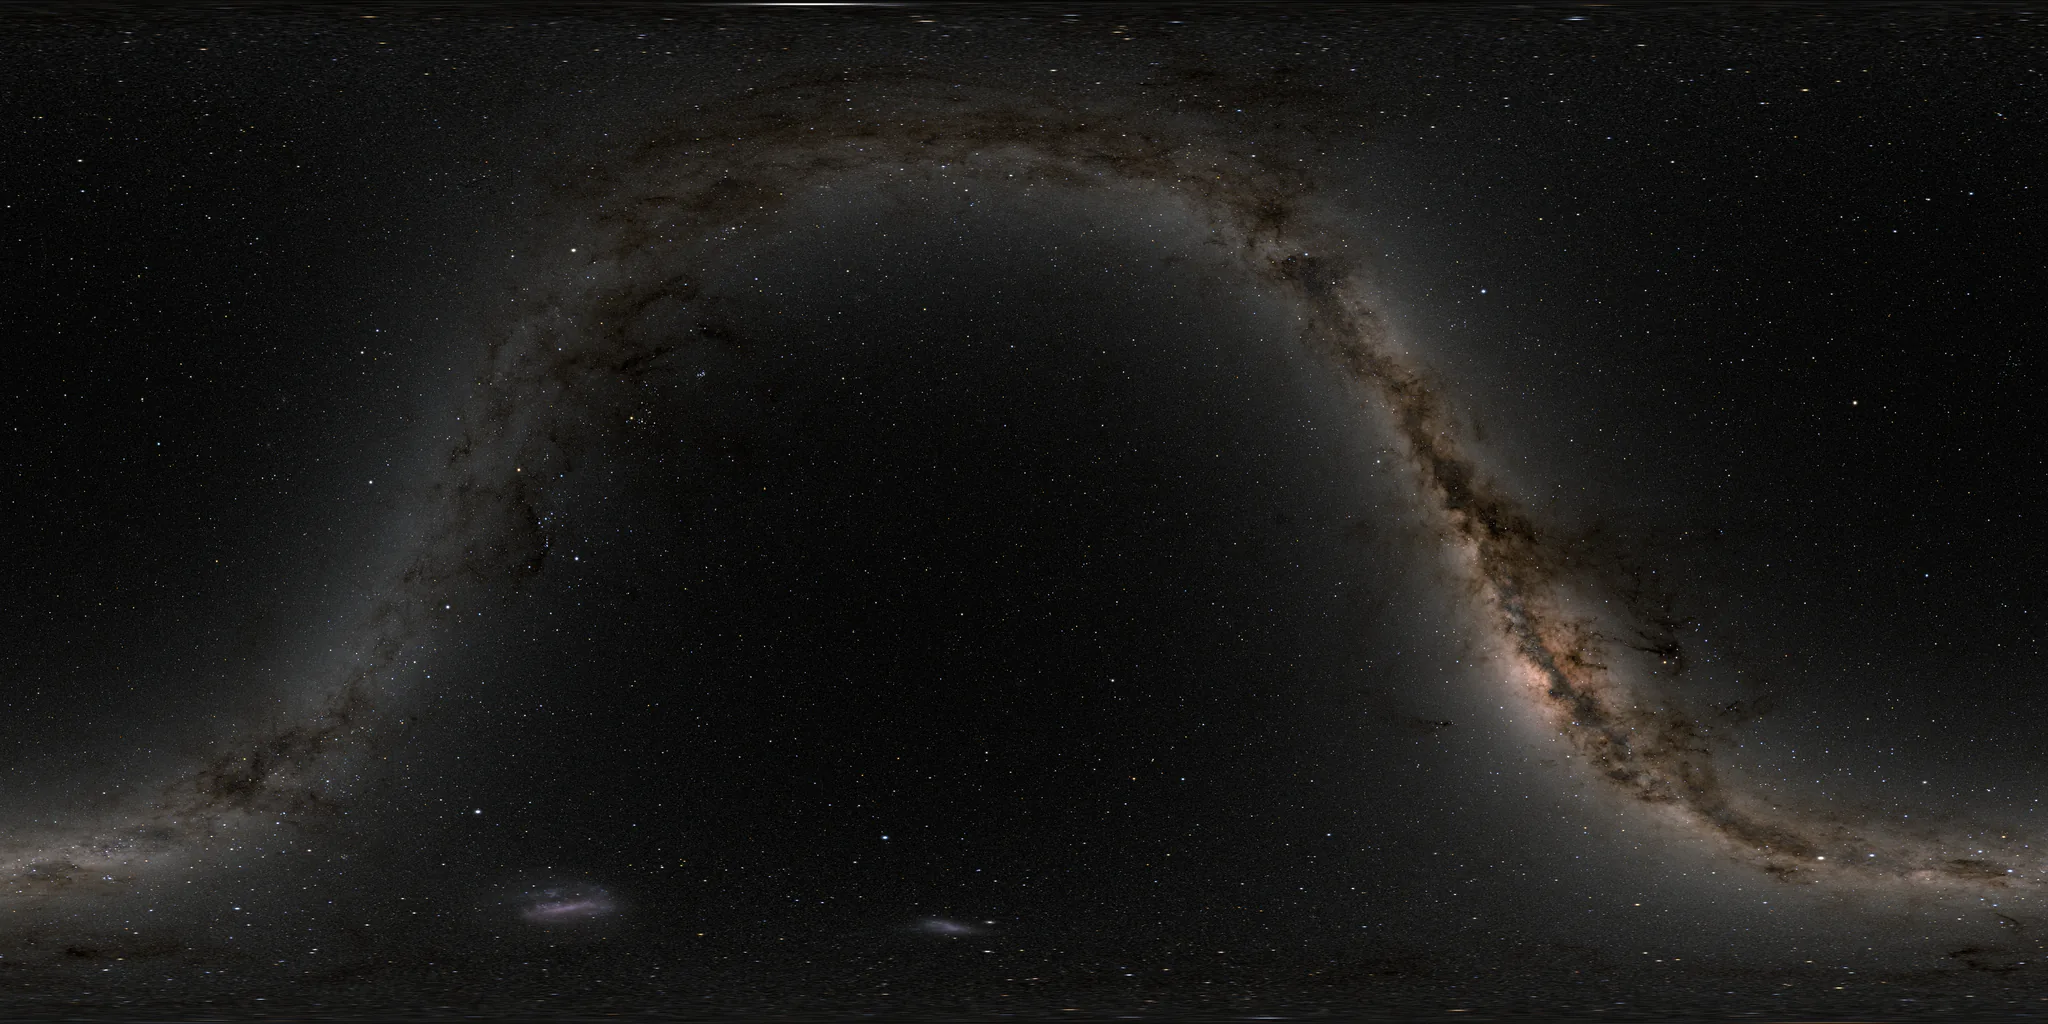
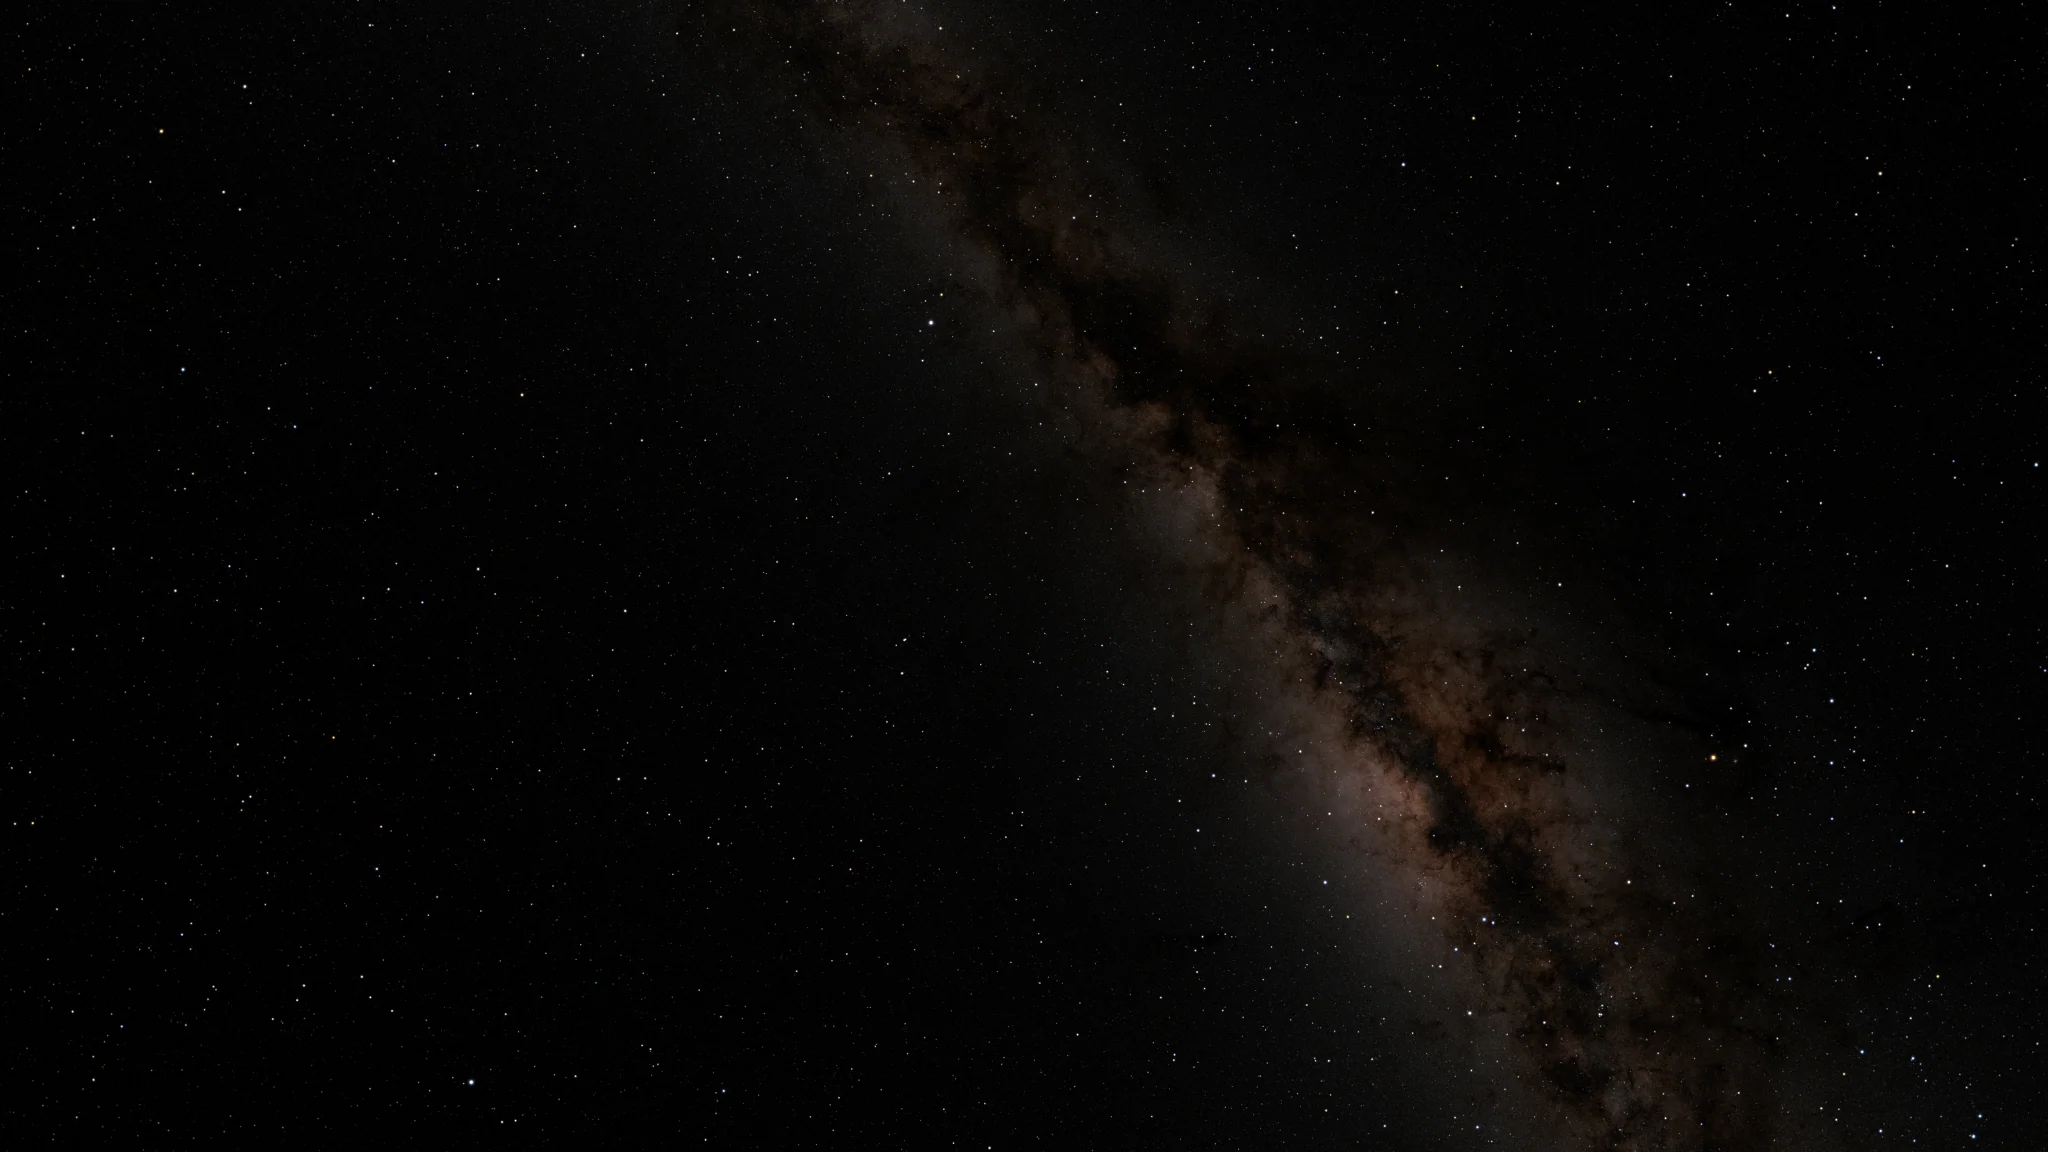
Project the night sky for flat screens and simplify the homepage globe

diff --git a/frontend/app/moon-globe.tsx b/frontend/app/moon-globe.tsx
@@ -261,7 +261,7 @@ export default function MoonGlobe({ home = false, primary, alternative, evidence
           : sun ? "Drag or use the arrows to rotate the sunlight map."
           : "Reference imagery with fixed lighting. Drag or use the arrows to rotate. This globe does not model terrain or calculate Sun/Earth visibility.")}</span></> :
         <><a href="https://svs.gsfc.nasa.gov/5001/" target="_blank" rel="noreferrer">LRO Moon mosaic · NASA’s Scientific Visualization Studio</a><br />{t("Context image, not current illumination or a selected-site view.")}</>}
-      <div className="globe-locator">
+      {!home && <div className="globe-locator">
         <div className="site-pin-key" role="group" aria-label={t("Locate a site")}>
           {pins.map((item, index) => <button type="button" key={item.key} data-pin={index}
             aria-pressed={target?.key === item.key} onClick={() => locate(item)}>
@@ -279,7 +279,7 @@ export default function MoonGlobe({ home = false, primary, alternative, evidence
         {target && <div className="globe-place">
           {"reason" in target.location ? <p>{t(target.location.reason)}</p> : <p>{t("Reported location")} · {target.location.point.latitude}° {t("latitude")} · {target.location.point.longitude}° {t("east longitude")}</p>}
           {point && ready && <><button type="button" className="button outline" onClick={() => selectCenter(point)}>{t("Center on site")}</button>
-            {!home && <p>{t(marker ? "The marker shows the approximate site location." : "This location is outside the current view.")}</p>}</>}
+            <p>{t(marker ? "The marker shows the approximate site location." : "This location is outside the current view.")}</p></>}
           {target.missionId && <div className="site-week-readings">
             <strong>{t("Saved team model results")}</strong>
             {displayedWeeks.map(week => {
@@ -302,7 +302,7 @@ export default function MoonGlobe({ home = false, primary, alternative, evidence
             <><a href="#local-sky" onClick={() => showSky?.(target.key === "Alternative")}>{t("Open this observation in 3D")}</a>{" · "}
               <a href="#sources">{t("Sources & method")}</a></>}
         </div>}
-      </div>
+      </div>}
     </figcaption>
   </figure>;
 }

diff --git a/frontend/app/night-sky.css b/frontend/app/night-sky.css
@@ -72,13 +72,13 @@
   .sky-appearance label, .night-credit { display: none; }
   :root[data-theme="dark"] .night-credit { display: inline; }
 }
-/* Cover scales the full map to the larger of the viewport width and twice its height. */
-@media screen and (min-width: 1025px), screen and (min-height: 513px), screen and (min-resolution: 1.5dppx) {
+/* Match the 16:9 projected sky texture to the viewport and display density. */
+@media screen and (min-width: 1025px), screen and (min-height: 577px), screen and (min-resolution: 1.5dppx) {
   :root { --star-map: url("/images/star-map-2048.webp"); }
 }
-@media screen and (min-width: 2049px), screen and (min-height: 1025px),
+@media screen and (min-width: 2049px), screen and (min-height: 1153px),
        screen and (min-resolution: 1.5dppx) and (min-width: 1025px),
-       screen and (min-resolution: 1.5dppx) and (min-height: 513px) {
+       screen and (min-resolution: 1.5dppx) and (min-height: 577px) {
   :root { --star-map: url("/images/star-map-4096.webp"); }
 }
 @media screen and (max-aspect-ratio: 3/4) and (min-height: 513px) {

diff --git a/frontend/app/globals.css b/frontend/app/globals.css
@@ -89,6 +89,7 @@ h3 { font-size: 1.12rem; font-weight: 600; line-height: 1.4; }
 .globe-controls button { min-width: 44px; min-height: 44px; padding: 0 8px; font-size: .93rem; border: 1px solid var(--line); border-radius: 4px; }
 .globe-center { margin: 6px auto; font-variant-numeric: tabular-nums; }
 .lunar-figure figcaption { color: var(--muted); text-align: center; font-size: .73rem; margin: 32px auto 0; max-width: 330px; }
+.intro .lunar-figure figcaption { font-size: .875rem; }
 .theme-control { display: grid; gap: 3px; font-size: .68rem; color: var(--muted); }
 .theme-control select { border: 1px solid var(--line); border-radius: 4px; min-height: 44px; max-width: 100%; background: transparent; color: var(--text); padding: 7px 10px; font-size: .82rem; }
 .reference-resources { padding: 28px 0; border-top: 1px solid var(--line); }

diff --git a/docs/CREDITS.md b/docs/CREDITS.md
@@ -71,6 +71,6 @@ OlegVegan photographed the clouds and released [Realistic transparent clouds (41
 
 ## Night theme star map
 
-The decorative background uses the celestial-coordinate map from *Deep Star Maps 2020*, SVS item 4851. Credit: NASA/Goddard Space Flight Center Scientific Visualization Studio. Gaia DR2: ESA/Gaia/DPAC. The selected image shows the stars without constellation figures. The map stays stationary behind decorative clouds. Four CSS stars vary in brightness at fixed positions, and three CSS meteor paths alternate in the night sky. These effects supply no site, time or observation values. Codex assisted their implementation. [Item and credits](https://svs.gsfc.nasa.gov/4851/) · [4K OpenEXR source](https://svs.gsfc.nasa.gov/vis/a000000/a004800/a004851/starmap_2020_4k.exr)
+The decorative background uses the celestial-coordinate map from *Deep Star Maps 2020*, SVS item 4851. Credit: NASA/Goddard Space Flight Center Scientific Visualization Studio. Gaia DR2: ESA/Gaia/DPAC. The selected image shows the stars without constellation figures. The map stays stationary behind decorative clouds. Four CSS stars vary in brightness at fixed positions, and three CSS meteor paths alternate in the night sky. These effects supply no site, time or observation values. Codex assisted their implementation. [Item and credits](https://svs.gsfc.nasa.gov/4851/) · [8K OpenEXR source](https://svs.gsfc.nasa.gov/vis/a000000/a004800/a004851/starmap_2020_8k.exr)
 
[2 lines of base64/hex data omitted]

diff --git a/HANDOFF.md b/HANDOFF.md
@@ -14,11 +14,11 @@ Imports, saved links, EN/VI, printing and sources work. View from switches or ov
 
 Wi-Fi mock jobs work. [UI-01](qa/docs/UI_RESILIENCE.md#ui-01-pending-windows) verified slow-load history; [UI-02](qa/docs/UI_RESILIENCE.md#ui-02-import-retest) import rejection and recovery; [UI-03](qa/docs/UI_RESILIENCE.md#ui-03-live-api-failures) pinned recovery after API faults; [UI-04 and UI-05](qa/docs/UI_RESILIENCE.md#ui-04-and-ui-05-plot-retest) missing data, 0° and north crossings; [UI-06](qa/docs/UI_RESILIENCE.md#ui-06-sharing-a-sample) exact shared UTC and provenance in both languages; and [UI-07](qa/docs/UI_RESILIENCE.md#ui-07-browser-retest) globe failures and comparison-preserving retry. [UI-10](qa/docs/UI_RESILIENCE.md#ui-10-invalid-workspace-links) covers malformed links, matching-file recovery and pinned retries.
 
-Saved-week globes show [dated sunlight](docs/GLOBE_SUNLIGHT.md). Sky markers select body readings. Mobile checks covered contacts, imports, selection, UTC, clearance and API status.
+Saved globes show [dated sunlight](docs/GLOBE_SUNLIGHT.md). Markers select body readings. Mobile checks cover contacts, imports, selection, UTC, clearance and API status.
 
 Run B returned [23 catalog ranks](docs/BACKEND_RECONCILIATION.md#ranking-two-sites-in-one-window). [Validation](frontend/tests/catalog-ranking.test.ts) checks all IDs and both scores. Apollo 11 uses a smooth-sphere horizon. Six CSVs matched. Reports link site coordinates and heights. UTC lookup shows requested and native samples. Fractional ends retain coverage. [Confirmed routes](docs/FRONTEND_CONTRACT.md#published-route-scope).
 
-[UI-09](qa/docs/UI_RESILIENCE.md#ui-09-keyboard-and-zoom) verified keyboard import, recovery, selection and gaps at 320px and 200% zoom. Globe focus is visible. Reload reopens sources. [Homepage navigation](qa/check_home_navigation.mjs) reaches members and saved methods by keyboard.
+[UI-09](qa/docs/UI_RESILIENCE.md#ui-09-keyboard-and-zoom) verified keyboard import, recovery, selection and gaps at 320px and 200% zoom. Globe focus visible. Sources reopen. [Home navigation](qa/check_home_navigation.mjs) reaches members and methods. Site selection stays in comparisons. [Sky projection](docs/CREDITS.md#night-theme-star-map).
 
 [Live API and Horizons replay](qa/README.md#frontend-integration-retest). [Raw checks](qa/docs/JPL_CHECK.md#archived-four-response-check).
 
